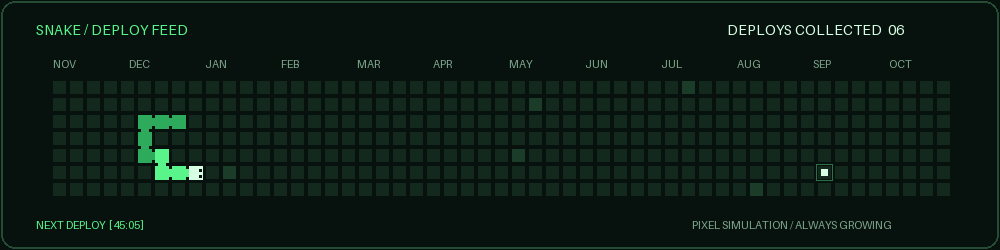
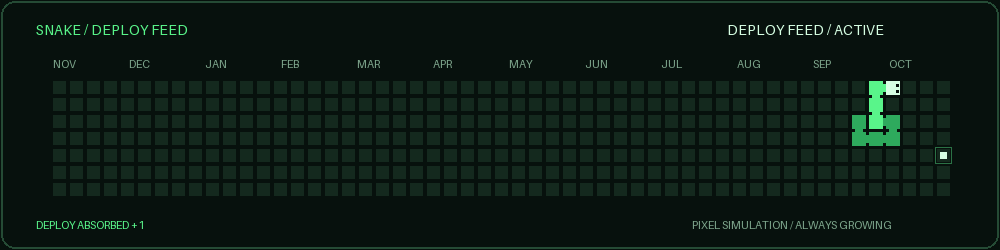
Cria loop continuo sem apagamento ou reinicio

diff --git a/assets/generate.py b/assets/generate.py
@@ -1,6 +1,5 @@
 """Rebuild pixel assets: python assets/generate.py (requires Pillow)."""
 from pathlib import Path
-from collections import deque
 import random
 from PIL import Image, ImageDraw, ImageFont
 
@@ -29,51 +28,45 @@ def header():
 
 def animation():
     rng = random.Random(20261105)
-    snake = deque([(10-i,3) for i in range(9)])
-    target, eaten, flash = (28,1), 0, 0
-    history, frames = set(), []
-
-    def path(goal):
-        queue, seen = deque([(snake[0],[])]), {snake[0]}
-        occupied = set(list(snake)[:-1])
-        while queue:
-            (x,y), route = queue.popleft()
-            if (x,y) == goal:
-                return route
-            neighbors = [(x+1,y),(x-1,y),(x,y+1),(x,y-1)]
-            rng.shuffle(neighbors)
-            for p in neighbors:
-                if 0 <= p[0] < 53 and 0 <= p[1] < 7 and p not in seen and p not in occupied:
-                    seen.add(p)
-                    queue.append((p,route+[p]))
-        return []
-
-    for tick in range(510):
-        if tick:
-            route = path(target)
-            assert route, 'Target must remain reachable'
-            snake.appendleft(route[0])
-            snake.pop()
-            assert len(set(snake)) == len(snake)
-            if snake[0] == target:
-                eaten += 1
-                flash = 5
-                history.add(target)
-                options = [(x,y) for x in range(53) for y in range(7) if (x,y) not in snake and abs(x-snake[0][0])+abs(y-snake[0][1]) > 13]
-                rng.shuffle(options)
-                target = next(p for p in options if path(p))
+    # A closed, self-avoiding route makes the last -> first frame a normal step.
+    route = ([(x,1) for x in range(2,51)] + [(50,y) for y in range(2,6)]
+             + [(x,5) for x in range(49,1,-1)] + [(2,y) for y in range(4,1,-1)])
+    for _ in range(2400):
+        j = rng.randrange(len(route))
+        a, b = route[j], route[(j+1)%len(route)]
+        dx, dy = b[0]-a[0], b[1]-a[1]
+        side = rng.choice([-1,1])
+        c = (a[0]-dy*side, a[1]+dx*side)
+        e = (b[0]-dy*side, b[1]+dx*side)
+        if all(0<=v[0]<53 and 0<=v[1]<7 and v not in route for v in (c,e)):
+            route[j+1:j+1] = [c,e]
+    n = len(route)
+    assert len(set(route)) == n
+    assert all(abs(route[i][0]-route[(i+1)%n][0])+abs(route[i][1]-route[(i+1)%n][1]) == 1 for i in range(n))
+    # Irregular intervals; targets, flashes and snake state are all periodic.
+    targets, cursor = [], 8
+    while cursor < n-12:
+        targets.append(cursor)
+        cursor += rng.randint(13,25)
+    frames = []
+    for tick in range(n):
+        snake = [route[(tick-i)%n] for i in range(9)]
+        target_index = next((v for v in targets if v>tick), targets[0])
+        target = route[target_index]
+        last_collect = min((tick-v)%n for v in targets)
+        flash = last_collect < 4
         im = canvas(250)
         d = ImageDraw.Draw(im)
         d.text((36,21), 'SNAKE / DEPLOY FEED', font=FONT, fill=GREEN)
-        d.text((727,21), f'DEPLOYS COLLECTED  {eaten:02d}', font=FONT, fill=LIGHT)
+        d.text((727,21), 'DEPLOY FEED / ACTIVE', font=FONT, fill=LIGHT)
         for m,label in enumerate(['NOV','DEC','JAN','FEB','MAR','APR','MAY','JUN','JUL','AUG','SEP','OCT']):
             d.text((53+m*76,57), label, font=SMALL, fill=MUTED)
         for x in range(53):
             for y in range(7):
                 px,py = 53+x*17,81+y*17
-                d.rectangle((px,py,px+12,py+12), fill='#1b3c29' if (x,y) in history else '#14291e')
+                d.rectangle((px,py,px+12,py+12), fill='#14291e')
         tx,ty = 53+target[0]*17,81+target[1]*17
-        d.rectangle((tx-2,ty-2,tx+14,ty+14), outline=GREEN if tick%8<4 else '#2b7145')
+        d.rectangle((tx-2,ty-2,tx+14,ty+14), outline=GREEN if (target_index-tick)%8<4 else '#2b7145')
         d.rectangle((tx+3,ty+3,tx+9,ty+9), fill=LIGHT)
         for i,(x,y) in reversed(list(enumerate(snake))):
             px,py = 53+x*17,81+y*17
@@ -88,24 +81,15 @@ def animation():
         eyes = [(10 if dx>0 else 2,3),(10 if dx>0 else 2,9)] if dx else [(3,10 if dy>0 else 2),(9,10 if dy>0 else 2)]
         for ex,ey in eyes:
             d.rectangle((px+ex,py+ey,px+ex+2,py+ey+2), fill=BG)
-        status = f'DEPLOY {eaten:02d} ABSORBED +1' if flash else f'NEXT DEPLOY  [{target[0]:02d}:{target[1]:02d}]'
+        status = 'DEPLOY ABSORBED +1' if flash else f'NEXT DEPLOY  [{target[0]:02d}:{target[1]:02d}]'
         d.text((36,218), status, font=SMALL, fill=GREEN)
         d.text((692,218), 'PIXEL SIMULATION / ALWAYS GROWING', font=SMALL, fill=MUTED)
-        flash = max(0,flash-1)
         frames.append(im)
-    last = frames[-1]
-    for width in range(0,1001,100):
-        im = last.copy()
-        ImageDraw.Draw(im).rectangle((0,0,width,249), fill=BG)
-        frames.append(im)
-    for width in range(0,1001,100):
-        im = frames[0].copy()
-        ImageDraw.Draw(im).rectangle((width,0,1000,249), fill=BG)
-        frames.append(im)
-    frames[0].save(ROOT/'deploy-snake.gif', save_all=True, append_images=frames[1:], duration=90, loop=0, optimize=True, disposal=1)
+    frames[0].save(ROOT/'deploy-snake.gif', save_all=True, append_images=frames[1:], duration=160, loop=0, optimize=True, disposal=1)
     frames[150].save(ROOT/'deploy-snake-preview.png')
-    assert eaten >= 10
-    print(f'{len(frames)} frames; {eaten} deploys; {len(frames)*.09:.1f}s loop')
+    assert snake[0] == route[-1]
+    assert [route[(0-i)%n] for i in range(1,9)] == snake[:8]
+    print(f'{n} frames; {len(targets)} targets; {n*.16:.1f}s seamless loop')
 
 
 if __name__ == '__main__':
